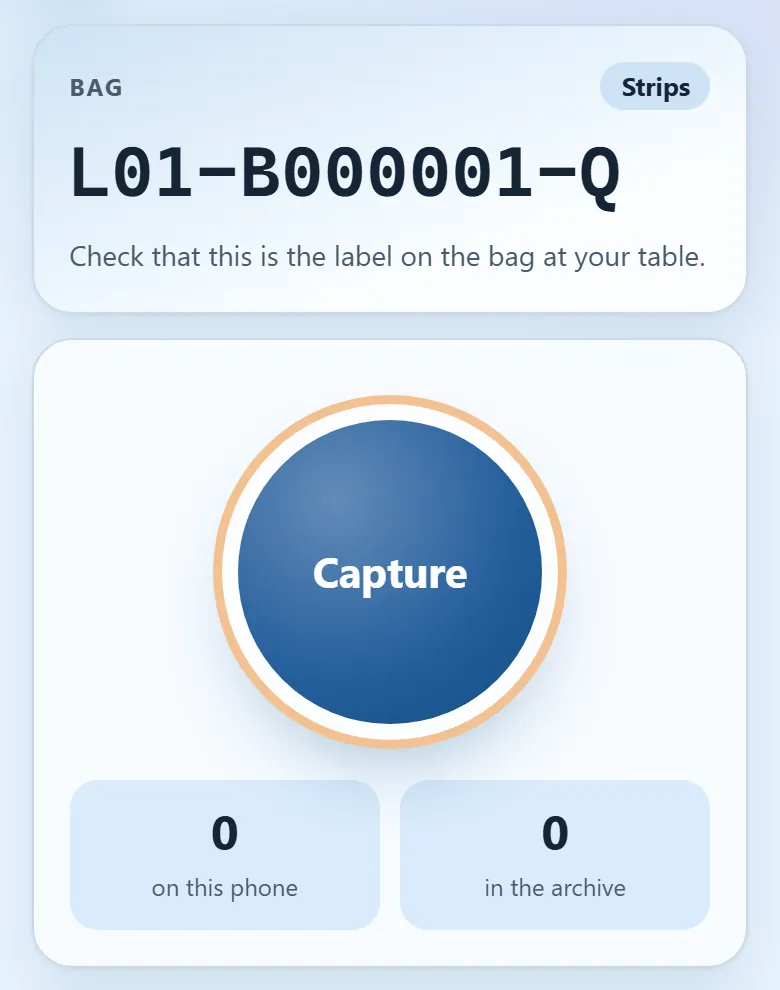
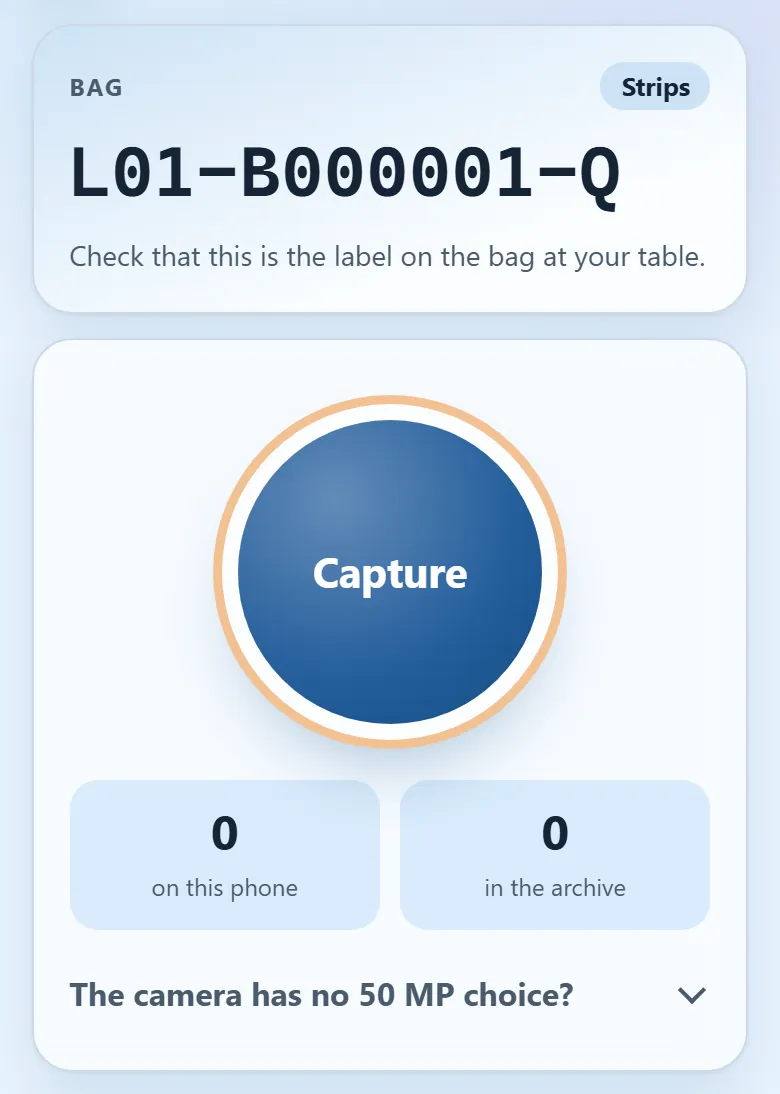
Add photos from the gallery, for a phone whose camera has no 50 MP mode in the page

Changed region(s): [[0.0308, 0.0606, 0.9538, 0.7879], [0.0923, 0.697, 0.9231, 0.9394]]

diff --git a/public/help/text.js b/public/help/text.js
@@ -24,8 +24,10 @@ export const HELP = {
     'h.mp.samsung.1': 'U kameri, u režimu „Photo“, dodirni „12M“ (pored ikone blica). Ako ga nema, dodirni četiri tačke, pa „Resolution“.',
     'h.mp.samsung.2': 'Izaberi „50M“.',
     'h.mp.samsung.3': 'Da izbor ostane: podešavanja kamere (zupčanik), pa „Settings to keep“, pa uključi „High picture resolutions“.',
-    'h.mp.xiaomi.2': 'Dodirni „50MP“. Na nekim modelima piše „64MP“, „108MP“, „200MP“ ili „Ultra HD“.',
-    'h.mp.xiaomi.3': 'Ako se kamera vrati na „Photo“, izaberi režim ponovo.',
+    'h.mp.xiaomi.1': 'Kamera koju otvori dugme „Snimi“ na ovim telefonima nema „More“ i daje 12 MP. Zato se prvo priključi vreći, pa otvori aplikaciju Kamera na telefonu.',
+    'h.mp.xiaomi.2': 'Dodirni „108MP“ ili „50MP“. Na nekim modelima piše „64MP“, „200MP“ ili „Ultra HD“.',
+    'h.mp.xiaomi.3': 'Snimi papir. Zatim se vrati u rezanci, dodirni „Kamera nema izbor 50 MP?“, pa „Dodaj fotografije iz galerije“. Izaberi fotografije koje si upravo snimio.',
+    'h.mp.xiaomi.4': 'Ako se kamera vrati na „Photo“, izaberi režim ponovo.',
     'h.mp.honor.2': 'Dodirni „High-res“. Na Honor telefonima piše „HIGH-RES“.',
     'h.mp.moto.2': 'Dodirni „Ultra-Res“.',
     'h.mp.moto.3': 'Ovog režima nema na: moto g55 5G, moto g (2025), moto g power (2025) i moto g75 5G sa 4 GB.',
@@ -46,6 +48,7 @@ export const HELP = {
     'h.mp.other': 'Drugi telefon',
     'h.mp.other.1': 'U kameri potraži režim ili dugme „50MP“, „48MP“, „Hi-Res“, „High resolution“ ili „Ultra HD“. Obično je u listi režima pod „More“ ili pri vrhu ekrana.',
     'h.mp.g1': 'Kada prvi put dodirneš „Snimi“, pogledaj kameru koja se otvori. Ako izbor 50 MP tu nije uključen, uključi ga i tu.',
+    'h.mp.g1b': 'Ako u toj kameri nema izbora 50 MP, uradi kao za Xiaomi: priključi se vreći, snimi u aplikaciji Kamera na telefonu, pa dodaj fotografije iz galerije.',
     'h.mp.g2': 'Format slike ostavi na 3:4 (negde piše 4:3) i ne zumiraj. I jedno i drugo smanjuje fotografiju.',
     'h.mp.g3': 'Ako ni posle ovih koraka fotografija nema 48 MP, javi moderatoru. Taj telefon ne može da snima za arhivu.',
     'h.op.s2.t': 'Skeniraj kod sa ekrana moderatora',
@@ -86,9 +89,11 @@ export const HELP = {
     'h.op.y3': 'Ostavi stranicu otvorenu dok se fotografije šalju.',
     'h.op.n1': 'Ne briši podatke pretraživača dok na telefonu ima fotografija.',
     'h.op.n2': 'Ne mešaj papir iz dve vreće.',
-    'h.op.n3': 'Ne fotografiši van aplikacije. Važi samo dugme „Snimi“.',
+    'h.op.n3': 'Ne ostavljaj fotografije samo u galeriji. U arhivu stižu samo kroz „Snimi“ ili „Dodaj fotografije iz galerije“.',
     'h.op.f1.q': 'Piše da fotografija ima 12 MP.',
-    'h.op.f1.a': 'Izaberi režim 50 MP u kameri i snimi ponovo. Koraci za tvoj telefon su u koraku 1.',
+    'h.op.f1.a': 'Izaberi režim 50 MP u kameri i snimi ponovo. Koraci za tvoj telefon su u koraku 1. Ako kamera nema taj izbor, snimaj u aplikaciji Kamera i dodaj fotografije iz galerije.',
+    'h.op.f6.q': 'Piše da je fotografija snimljena pre priključenja vreći.',
+    'h.op.f6.a': 'Ta fotografija ne ide u ovu vreću. Snimi papir ponovo, posle priključenja.',
     'h.op.f2.q': 'Piše da je vreća zatvorena.',
     'h.op.f2.a': 'Pitaj moderatora za kod sledeće vreće.',
     'h.op.f3.q': 'Piše da na telefonu ima fotografija iz druge vreće.',
@@ -163,7 +168,7 @@ export const HELP = {
     'h.s.modopen': 'Moderator: otvaranje vreće',
     'h.s.opjoin': 'Operater: priključivanje',
     'h.s.mp.t': 'Kamera na 50 MP: gde je izbor',
-    'h.s.mp.n': 'Tačni koraci su u aplikaciji: „Pomoć“, korak 1. Proveri izbor i u kameri koju otvori aplikacija. Format 3:4, bez zuma.',
+    'h.s.mp.n': 'Tačni koraci su u aplikaciji: „Pomoć“, korak 1. Proveri izbor i u kameri koju otvori aplikacija. Ako ga tu nema (Xiaomi): snimi u aplikaciji Kamera, pa „Dodaj fotografije iz galerije“. Format 3:4, bez zuma.',
     'h.s.opshoot': 'Operater: snimanje',
     'h.s.opcheck': 'Operater: provera fotografije',
     'h.s.opoff': 'Operater: rad bez mreže',
@@ -233,8 +238,10 @@ export const HELP = {
     'h.mp.samsung.1': 'In the camera, in "Photo" mode, tap "12M" (next to the flash icon). If it is not there, tap the four dots, then "Resolution".',
     'h.mp.samsung.2': 'Select "50M".',
     'h.mp.samsung.3': 'To keep the choice: camera settings (gear), then "Settings to keep", then turn on "High picture resolutions".',
-    'h.mp.xiaomi.2': 'Tap "50MP". Some models show "64MP", "108MP", "200MP" or "Ultra HD".',
-    'h.mp.xiaomi.3': 'If the camera goes back to "Photo", select the mode again.',
+    'h.mp.xiaomi.1': 'On these phones the camera that the "Capture" button opens has no "More" and gives 12 MP. So join the bag first, then open the Camera app of the phone.',
+    'h.mp.xiaomi.2': 'Tap "108MP" or "50MP". Some models show "64MP", "200MP" or "Ultra HD".',
+    'h.mp.xiaomi.3': 'Photograph the paper. Then go back to rezanci, tap "The camera has no 50 MP choice?", then "Add photos from the gallery". Select the photos that you took just now.',
+    'h.mp.xiaomi.4': 'If the camera goes back to "Photo", select the mode again.',
     'h.mp.honor.2': 'Tap "High-res". Honor phones show "HIGH-RES".',
     'h.mp.moto.2': 'Tap "Ultra-Res".',
     'h.mp.moto.3': 'These models do not have this mode: moto g55 5G, moto g (2025), moto g power (2025) and moto g75 5G with 4 GB.',
@@ -255,6 +262,7 @@ export const HELP = {
     'h.mp.other': 'Another phone',
     'h.mp.other.1': 'Look in the camera for a mode or a button "50MP", "48MP", "Hi-Res", "High resolution" or "Ultra HD". It is usually in the mode list under "More" or near the top of the screen.',
     'h.mp.g1': 'When you tap "Capture" for the first time, look at the camera that opens. If the 50 MP choice is not on there, turn it on there too.',
+    'h.mp.g1b': 'If that camera has no 50 MP choice, do as for Xiaomi: join the bag, take the photos in the Camera app of the phone, then add them from the gallery.',
     'h.mp.g2': 'Keep the picture format at 3:4 (some phones show 4:3) and do not zoom. Each of these makes the photo smaller.',
     'h.mp.g3': 'If the photo has less than 48 MP after these steps, tell the moderator. This phone cannot take photos for the archive.',
     'h.op.s2.t': 'Scan the code on the moderator screen',
@@ -294,9 +302,11 @@ export const HELP = {
     'h.op.y3': 'Keep the page open while photos go out.',
     'h.op.n1': 'Do not clear the browser data while the phone holds photos.',
     'h.op.n2': 'Do not mix paper of two bags.',
-    'h.op.n3': 'Do not take photos outside the app. Only the "Capture" button counts.',
+    'h.op.n3': 'Do not leave photos in the gallery only. They reach the archive only through "Capture" or "Add photos from the gallery".',
     'h.op.f1.q': 'It says that the photo has 12 MP.',
-    'h.op.f1.a': 'Select the 50 MP mode in the camera and take the photo again. The steps for your phone are in step 1.',
+    'h.op.f1.a': 'Select the 50 MP mode in the camera and take the photo again. The steps for your phone are in step 1. If the camera has no such choice, take the photos in the Camera app and add them from the gallery.',
+    'h.op.f6.q': 'It says that the photo is from before this phone joined the bag.',
+    'h.op.f6.a': 'This photo does not go into this bag. Photograph the paper again, after you join.',
     'h.op.f2.q': 'It says that the bag is closed.',
     'h.op.f2.a': 'Ask the moderator for the code of the next bag.',
     'h.op.f3.q': 'It says that the phone holds photos of a different bag.',
@@ -371,7 +381,7 @@ export const HELP = {
     'h.s.modopen': 'Moderator: open the bag',
     'h.s.opjoin': 'Operator: join',
     'h.s.mp.t': 'Camera at 50 MP: where the choice is',
-    'h.s.mp.n': 'The exact steps are in the app: "Help", step 1. Check the choice in the camera that the app opens too. Format 3:4, no zoom.',
+    'h.s.mp.n': 'The exact steps are in the app: "Help", step 1. Check the choice in the camera that the app opens too. If it is not there (Xiaomi): use the Camera app, then "Add photos from the gallery". Format 3:4, no zoom.',
     'h.s.opshoot': 'Operator: capture',
     'h.s.opcheck': 'Operator: photo check',
     'h.s.opoff': 'Operator: work with no network',

diff --git a/public/capture.js b/public/capture.js
@@ -1,7 +1,7 @@
 // Operator capture screen: take a photo, check it, hash it, save it in the phone queue, send it to the archive.
 // A photo leaves this phone only after the server confirms that the archive holds the same bytes.
 import { $, api, boot, t, say, show, errorText, keep, lastSession } from '/ui.js';
-import { jpegSize, jpegClean, exifTime, sha256Hex } from '/jpeg.js';
+import { jpegSize, jpegClean, exifTime, localTime, sha256Hex } from '/jpeg.js';
 import { measure } from '/quality.js';
 import * as queue from '/queue.js';
 import { scanButton } from '/scan.js';
@@ -19,6 +19,7 @@ let held = [];             // photos on this phone, oldest first
 let sending = false;       // one upload at a time
 let wait = 0, timer = 0;   // wait before the next try after an upload that failed
 let busy = false;          // a new photo is in the checks
+let step = '';             // "Photo 2 of 5. " in front of the messages while photos from the gallery go through the checks
 const refused = new Map(); // photos that the server refused in this visit: hash and reason
 const previewed = new Set();   // photos whose small copy went to the server in this visit
 
@@ -28,7 +29,7 @@ function render() {
   $('operator').textContent = session.name;
   $('operator').hidden = false;
   $('archived').textContent = String(session.verified);
-  $('capture').disabled = session.done || busy;
+  $('capture').disabled = $('add').disabled = session.done || busy;
   $('done-lead').textContent = t(session.done ? 'cap.done.state' : 'cap.done.lead');
   $('done').textContent = t(session.done ? 'cap.done.off' : 'cap.done.on');
   $('done').className = 'btn wide ' + (session.done ? 'ghost' : 'soft');
@@ -50,6 +51,7 @@ async function load() {
   if (r.ok) {
     session = r.data;
     keep.set('session', JSON.stringify(session));
+    if (!keep.get('since')) keep.set('since', String(Date.now()));   // a phone that joined before this value existed
     render();
     show('main', 'work');
     say(status, '');
@@ -154,17 +156,28 @@ function review(q, reasons) {
   }).finally(() => { $('review').hidden = true; });
 }
 
-async function take(file) {
-  if (!session || session.done) return;
+// Puts one photo through the checks and into the queue. "picked" is true for a photo from the gallery.
+// Returns true if the photo is in the queue, false if the operator removed it, or the text of the reason for a refusal.
+async function take(file, picked) {
+  if (!session || session.done) return false;
   const buf = await file.arrayBuffer();
   const size = jpegSize(buf);
-  if (!size) return say(shot, t('cap.notjpeg'), 'bad');
+  if (!size) return t('cap.notjpeg');
   const mp = (size.w * size.h / 1e6).toFixed(1);
-  if (size.w * size.h < MIN_PIXELS) return say(shot, t('cap.small', { mp }), 'bad');
+  if (size.w * size.h < MIN_PIXELS) {
+    $('gallery-box').open = true;                         // the way for a phone whose camera has no 50 MP choice here
+    return t('cap.small', { mp });
+  }
+  // A photo from the gallery can be of a different bag. It counts only if it is newer than the moment
+  // this phone joined the bag. With no known moment, no photo from the gallery counts.
+  if (picked) {
+    const at = localTime(exifTime(buf)) || file.lastModified;
+    if (!(at >= (Number(keep.get('since')) || Infinity))) return t('cap.old');
+  }
   // Only the picture leaves this phone. The data that the camera wrote into the file about the phone and the place
   // is removed here, before the hash: the archive never gets the file of the camera.
   const clean = jpegClean(buf);
-  if (!clean) return say(shot, t('cap.partial'), 'bad');
+  if (!clean) return t('cap.partial');
   const photo = new Blob([clean], { type: 'image/jpeg' });
   const sha = await sha256Hex(clean);                     // hash first, then one short storage transaction
   // The record keeps the bag of the photo. The server takes the photo only into that bag.
@@ -172,7 +185,7 @@ async function take(file) {
   const record = { sha, bag: session.label, blob: photo, width: size.w, height: size.h, taken: exifTime(buf), saved: Date.now(), hold: true };
   await queue.put(record);
   const saved = t('cap.saved', { mp, mb: (photo.size / 1048576).toFixed(1) });
-  say(shot, saved + ' ' + t('cap.checking'), 'good');
+  say(shot, step + saved + ' ' + t('cap.checking'), 'good');
   if (!sending) say(sync, '');                            // "all photos are in the archive" is not true now
   await refresh();
 
@@ -185,7 +198,7 @@ async function take(file) {
     keep.set('measuring', '');
     if (q) keep.set('stops', '0');
   }
-  say(shot, saved, 'good');
+  say(shot, step + saved, 'good');
   delete record.hold;
   if (q) {
     record.quality = { blur: q.sharp, clipped: q.clipped, dark: q.dark };
@@ -196,28 +209,51 @@ async function take(file) {
     else {
       await queue.remove(sha);                            // the operator takes the photo again
       say(shot, t('cap.retake'));
-      return refresh();
+      await refresh();
+      return false;
     }
   }
   await queue.put(record);
   await refresh();
   pump();
+  return true;
 }
 
 // One photo at a time goes through the checks: the decode of a 50 MP photo needs much memory.
-async function checked(file) {
+// Returns what take() returns.
+async function checked(file, picked = false) {
   busy = true;
-  $('capture').disabled = true;
-  try { await take(file); } catch (err) { say(shot, t('cap.notsaved', { why: err.message }), 'bad'); }
+  $('capture').disabled = $('add').disabled = true;
+  let result;
+  try { result = await take(file, picked); } catch (err) { result = t('cap.notsaved', { why: err.message }); }
   busy = false;
-  $('capture').disabled = !session || session.done;
+  $('capture').disabled = $('add').disabled = !session || session.done;
+  return result;
 }
 
 $('capture').onclick = () => $('camera').click();
-$('camera').onchange = event => {
+$('camera').onchange = async event => {
   const file = event.target.files[0];
   event.target.value = '';                                // the same input must fire again for the next shot
-  if (file) checked(file);
+  const result = file && await checked(file);
+  if (typeof result === 'string') say(shot, result, 'bad');
+};
+
+// Photos from the gallery: each one goes through the same checks, one after the other. The last message tells
+// how many are in the queue and gives the reason for the first one that is not.
+$('add').onclick = () => $('gallery').click();
+$('gallery').onchange = async event => {
+  const files = [...event.target.files], reasons = [];
+  event.target.value = '';
+  let added = 0;
+  for (const [i, file] of files.entries()) {
+    step = t('cap.gallery.step', { i: i + 1, n: files.length });
+    say(shot, step + t('cap.checking'));
+    const result = await checked(file, true);
+    if (result === true) added++; else if (result) reasons.push(result);
+  }
+  step = '';
+  if (files.length) say(shot, t('cap.gallery.done', { ok: added, bad: reasons.length }) + (reasons.length ? ' ' + reasons[0] : ''), reasons.length ? 'bad' : 'good');
 };
 
 $('done').onclick = async () => {

diff --git a/public/help/operator.html b/public/help/operator.html
@@ -29,7 +29,7 @@
       <p class="muted" data-t="h.mp.lead"></p>
       <div class="brands">
         <details><summary>Samsung Galaxy</summary><ol><li data-t="h.mp.samsung.1"></li><li data-t="h.mp.samsung.2"></li><li data-t="h.mp.samsung.3"></li></ol></details>
-        <details><summary>Xiaomi / Redmi / POCO</summary><ol><li data-t="h.mp.more"></li><li data-t="h.mp.xiaomi.2"></li><li data-t="h.mp.xiaomi.3"></li></ol></details>
+        <details><summary>Xiaomi / Redmi / POCO</summary><ol><li data-t="h.mp.xiaomi.1"></li><li data-t="h.mp.more"></li><li data-t="h.mp.xiaomi.2"></li><li data-t="h.mp.xiaomi.3"></li><li data-t="h.mp.xiaomi.4"></li></ol></details>
         <details><summary>Honor / Huawei</summary><ol><li data-t="h.mp.more"></li><li data-t="h.mp.honor.2"></li></ol></details>
         <details><summary>Motorola</summary><ol><li data-t="h.mp.more"></li><li data-t="h.mp.moto.2"></li><li data-t="h.mp.moto.3"></li></ol></details>
         <details><summary>OPPO / OnePlus / realme</summary><ol><li data-t="h.mp.more"></li><li data-t="h.mp.oppo.2"></li><li data-t="h.mp.oppo.3"></li></ol></details>
@@ -39,7 +39,7 @@
         <details><summary>iPhone</summary><ol><li data-t="h.mp.iphone.1"></li><li data-t="h.mp.iphone.2"></li><li data-t="h.mp.iphone.3"></li><li data-t="h.mp.iphone.4"></li></ol><p class="muted" data-t="h.mp.iphone.n"></p></details>
         <details><summary data-t="h.mp.other"></summary><p data-t="h.mp.other.1"></p></details>
       </div>
-      <ul class="marks yes"><li data-t="h.mp.g1"></li><li data-t="h.mp.g2"></li></ul>
+      <ul class="marks yes"><li data-t="h.mp.g1"></li><li data-t="h.mp.g1b"></li><li data-t="h.mp.g2"></li></ul>
       <p class="muted" data-t="h.mp.g3"></p>
     </section>
     <section class="card step">
@@ -113,6 +113,7 @@
         <dt data-t="h.op.f3.q"></dt><dd data-t="h.op.f3.a"></dd>
         <dt data-t="h.op.f4.q"></dt><dd data-t="h.op.f4.a"></dd>
         <dt data-t="h.op.f5.q"></dt><dd data-t="h.op.f5.a"></dd>
+        <dt data-t="h.op.f6.q"></dt><dd data-t="h.op.f6.a"></dd>
       </dl>
       <img class="shot" data-shot="op-held" alt="">
     </section>

diff --git a/public/i18n.js b/public/i18n.js
@@ -52,6 +52,12 @@ export const TEXT = {
     'cap.review.retake': 'Take it again',
     'cap.review.keep': 'Keep this photo',
     'cap.small': 'The photo has {mp} MP. Select the 50 MP mode in the camera and take the photo again.',
+    'cap.gallery.title': 'The camera has no 50 MP choice?',
+    'cap.gallery.lead': 'Take the photos in the Camera app of the phone at full resolution. Then add them here. Only photos that you took after you joined this bag are accepted.',
+    'cap.gallery.add': 'Add photos from the gallery',
+    'cap.gallery.step': 'Photo {i} of {n}. ',
+    'cap.gallery.done': 'Added: {ok}. Not added: {bad}.',
+    'cap.old': 'This photo is from before this phone joined the bag. Take it again.',
     'cap.notsaved': 'Not saved: {why}. Take the photo again.',
     'cap.queue': 'The photo store of this phone is not available: {why}',
     'cap.done.title': 'Finished with this bag?',
@@ -256,6 +262,12 @@ export const TEXT = {
     'cap.review.retake': 'Snimi ponovo',
     'cap.review.keep': 'Zadrži ovu fotografiju',
     'cap.small': 'Fotografija ima {mp} MP. Izaberi režim 50 MP u kameri i snimi ponovo.',
+    'cap.gallery.title': 'Kamera nema izbor 50 MP?',
+    'cap.gallery.lead': 'Snimi fotografije u aplikaciji Kamera na telefonu, u punoj rezoluciji. Zatim ih dodaj ovde. Primaju se samo fotografije snimljene posle priključenja ovoj vreći.',
+    'cap.gallery.add': 'Dodaj fotografije iz galerije',
+    'cap.gallery.step': 'Fotografija {i} od {n}. ',
+    'cap.gallery.done': 'Dodato: {ok}. Nije dodato: {bad}.',
+    'cap.old': 'Ova fotografija je snimljena pre nego što se ovaj telefon priključio vreći. Snimi je ponovo.',
     'cap.notsaved': 'Nije sačuvano: {why}. Snimi ponovo.',
     'cap.queue': 'Skladište fotografija na ovom telefonu nije dostupno: {why}',
     'cap.done.title': 'Gotovo sa ovom vrećom?',

diff --git a/public/capture.html b/public/capture.html
@@ -55,6 +55,16 @@
           <div class="stat"><b id="archived">0</b><span data-t="cap.archived">in the archive</span></div>
         </div>
         <p id="sync" class="status" role="status" aria-live="polite" hidden></p>
+        <!-- Some phones show their full-resolution mode only in their own camera app, not in the camera that this page starts.
+             Their photos come in through the gallery. A photo counts only if it is newer than the join of this phone. -->
+        <details id="gallery-box">
+          <summary data-t="cap.gallery.title">The camera has no 50 MP choice?</summary>
+          <div class="stack">
+            <p class="muted small" data-t="cap.gallery.lead">Take the photos in the Camera app of the phone at full resolution. Then add them here. Only photos that you took after you joined this bag are accepted.</p>
+            <input id="gallery" type="file" accept="image/jpeg" multiple hidden>
+            <button id="add" class="btn soft wide" type="button" data-t="cap.gallery.add">Add photos from the gallery</button>
+          </div>
+        </details>
       </section>
 
       <section class="card">

diff --git a/test/core.test.js b/test/core.test.js
@@ -1,6 +1,6 @@
 import test from 'node:test';
 import assert from 'node:assert/strict';
-import { jpegSize, jpegClean, exifTime, sha256Hex } from '../public/jpeg.js';
+import { jpegSize, jpegClean, exifTime, localTime, sha256Hex } from '../public/jpeg.js';
 import { tileSharpness } from '../public/quality.js';
 import { generateKeyPair, exportJWK, SignJWT, createLocalJWKSet } from 'jose';
 import { isCrossSite, accessClaims } from '../src/worker.js';
@@ -75,6 +75,9 @@ test('tileSharpness is high for hard edges and low for focus blur and for motion
 test('exifTime reads the capture time and returns null with no EXIF block', () => {
   assert.equal(exifTime(hex(EXIF)), '2026:11:25 10:00:00');
   assert.equal(exifTime(hex(SOF)), null);
+  // The same time as a number, on the clock of the phone. The gallery rule compares it with the join time.
+  assert.equal(localTime(exifTime(hex(EXIF))), new Date(2026, 10, 25, 10).getTime());
+  assert.ok(Number.isNaN(localTime(null)) && Number.isNaN(localTime('2026-11-25T10:00:00')));
 });
 
 test('sha256Hex gives the known hash of empty data', async () => {

diff --git a/public/help/slides.html b/public/help/slides.html
@@ -49,7 +49,7 @@
     <h2><span data-t="h.s.mp.t"></span></h2>
     <div class="say">
     <div class="cols">
-    <ul class="facts"><li><b>Samsung</b>: 12M → 50M</li><li><b>Xiaomi / Redmi / POCO</b>: More → 50MP</li><li><b>Honor / Huawei</b>: More → High-res</li><li><b>Motorola</b>: More → Ultra-Res</li><li><b>OPPO / OnePlus / realme</b>: More → Hi-Res</li></ul>
+    <ul class="facts"><li><b>Samsung</b>: 12M → 50M</li><li><b>Xiaomi / Redmi / POCO</b>: More → 108MP / 50MP</li><li><b>Honor / Huawei</b>: More → High-res</li><li><b>Motorola</b>: More → Ultra-Res</li><li><b>OPPO / OnePlus / realme</b>: More → Hi-Res</li></ul>
     <ul class="facts"><li><b>vivo</b>: High resolution</li><li><b>Google Pixel Pro</b>: Settings → Pro → Resolution → 50 MP</li><li><b>Nothing</b>: Quality → 50MP</li><li><b>iPhone</b>: Resolution Control → JPEG Max</li></ul>
     </div>
     <p class="note" data-t="h.s.mp.n"></p>

diff --git a/public/jpeg.js b/public/jpeg.js
@@ -106,6 +106,12 @@ export function exifTime(buf) {
   }
 }
 
+// The capture time of exifTime() ("2026:11:26 10:15:30", clock of the phone) as milliseconds, or NaN if there is none.
+export function localTime(text) {
+  const m = /^(\d{4}):(\d\d):(\d\d) (\d\d):(\d\d):(\d\d)$/.exec(text ?? '');
+  return m ? new Date(+m[1], m[2] - 1, +m[3], +m[4], +m[5], +m[6]).getTime() : NaN;
+}
+
 // SHA-256 of the file as lower-case hex. This value is the name of the image in the archive.
 export async function sha256Hex(buf) {
   const d = new Uint8Array(await crypto.subtle.digest('SHA-256', buf));

diff --git a/public/join.js b/public/join.js
@@ -34,6 +34,7 @@ $('form').onsubmit = async event => {
   const r = await api('POST', '/api/enroll', { code, name, phone, holds });
   if (r.ok) {
     keep.set('name', name);
+    keep.set('since', String(Date.now()));   // a photo from the gallery must be newer than this moment (capture.js)
     sessionStorage.removeItem('code');
     location.replace('/capture');
     return;
